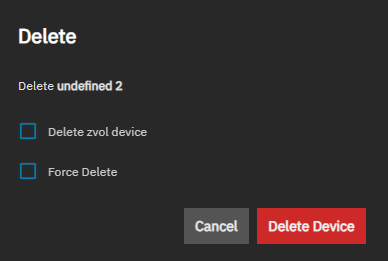
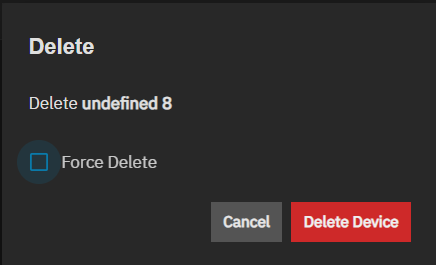
PD-1870 Update AddManageVMDevicesSCALE.md Content
This commit updates the instructions and screenshots in the virtual machine tutorial article.

diff --git a/content/SCALE/SCALETutorials/VirtualMachines/AddManageVMDevicesSCALE.md b/content/SCALE/SCALETutorials/VirtualMachines/AddManageVMDevicesSCALE.md
@@ -14,175 +14,203 @@ keywords:
 ---
 
 ## Managing Devices
-After creating a VM, the next step is to add virtual devices for that VM.
-Using the Create Virtual Machine wizard, configure at least one disk, NIC, and display as part of the process.
-To add devices, from the **Virtual Machines** screen, click anywhere on a VM entry to expand it and show the options for the VM.
 
-Click <i class="material-icons" aria-hidden="true" title="Devices">device_hub</i> **Devices** to open the **Devices** screen for the VM.
-From this screen, you can edit, add, or delete devices.
+After creating a VM, the next step is to add virtual devices for that VM.
+Using the **Create Virtual Machine** wizard configures at least one disk, NIC, and a display as part of the process, but you can add more devices to suit your use case.
+Go to **Virtual Machines**, then click anywhere on a VM entry to expand it and show the options for the VM.
+
+{{< trueimage src="/images/SCALE/Virtualization/VirtualMachinesScreenwithVMDetails.png" alt="VM Details" id="VM Details" >}}
+
+The VM options change when the VM is running.
+
+Click <i class="material-icons" aria-hidden="true" title="Devices">device_hub</i> **Devices** to open the **Devices** screen for that VM.
 Click the <span class="material-icons">more_vert</span> icon at the right of each listed device to see device options.
 
-{{< trueimage src="/images/SCALE/Virtualization/VirtualMachinesScreenwithVMDetails.png" alt="VM Options" id="VM Options" >}}
+{{< trueimage src="/images/SCALE/Virtualization/VMDevicesListed.png" alt="VM Devices Screen" id="VM Devices Screen" >}}
 
 The devices for the VM display as a list.
 
 Device notes:
-
 * A virtual machine attempts to boot from devices according to the **Device Order**, starting with **1000**, then ascending.
 * A **CD-ROM** device allows booting a VM from a CD-ROM image like an installation CD.
   The CD image must be available in the system storage.
-* With a **Display** device, remote clients can connect to VM display sessions using a SPICE client, or by installing a 3rd party remote desktop server inside your VM.
+* A **Display** device provides remote clients with a way to connect to VM display sessions using a SPICE client, or by installing a 3rd party remote desktop server inside your VM.
   SPICE clients are available from the [SPICE Protocol site](https://www.spice-space.org/).
 
+### Before You Begin
+
 Before adding, editing, or deleting a VM device, stop the VM if it is running.
-Click the **State** toggle to stop or restart a VM, or use the **Stop** and **Restart** buttons.
+Click the **Running** toggle to stop or restart a VM, or use the **Stop** and **Restart** buttons on the expanded VM screen.
+
+Expand the VM, then click on **Devices** to open the **Devices** Screen.
+Click **Add** to create a new device, or click on the <span class="material-icons">more_vert</span> at the right of each device row to edit or delete a device for the selected VM.
 
 ### Editing a Device
-Select **Edit** to open the **Edit Device** screen.
-You can change the type of virtual hard disk, the storage volume to use, or change the device boot order.
 
-To edit a VM device:
-1. Stop the VM if it is running, then click **Devices** to open the list of devices for the selected VM.
-2. Click on the <span class="material-icons">more_vert</span> icon at the right of the listed device you want to edit, then select **Edit** to open the **Edit Device** screen.
+Click on the <span class="material-icons">more_vert</span> at the right of the device row, then click on **Edit** to open the **Edit Device** screen.
+The screen settings change based on the device type selected. For example, if you edit a disk (example provided below), you can change the type of virtual hard disk, the storage volume to use, or change the boot order for the device.
+
+With the VM stopped, and the **Edit** option selected for a device. We show the procedure below using a disk device.
+Steps below are optional. Change them based on your use case.
 
 {{< trueimage src="/images/SCALE/Virtualization/EditDeviceDiskScreen.png" alt="Edit Device VM Disk" id="Edit Device VM Disk" >}}
 
-3. Select the path to the zvol created when setting up the VM on the **Zvol** dropdown list.
-4. Select the type of hard disk emulation from the **Mode** dropdown list.
+1. (Optional) Select a new path to the zvol created when setting up the VM on the **Zvol** dropdown list.
+2. (Optional) Select the type of hard disk emulation from the **Mode** dropdown list.
    Select **AHCI** for better software compatibility, or select **VirtIO** for better performance if the guest OS installed in the VM has support for VirtIO disk devices.
-5. (Optional) Specify the disk sector size in bytes in **Disk Sector Size**.
+3. (Optional) Specify the disk sector size in bytes in **Disk Sector Size**.
    Leave set to **Default** or select either **512** or **4096** byte values from the dropdown list.
-   If not set, the sector size uses the ZFS volume values.
-6. Specify the boot order or priority level in **Device Order** to move this device up or down in the sequence.
-   The lower the number the higher the priority in the boot sequence.
-7. Click **Save**.
-8. Restart the VM.
+   If set to **Default**, the sector size uses the ZFS volume values.
+4. (Optional) Enter a number that reflects the boot order or priority level in **Device Order** to move this device up or down in the sequence.
+   The lower the number, the higher the priority in the boot sequence.
+5. Click **Save**.
+4. Click on the **Virtual Machines** breadcrumb at the top of the screen, and restart the VM.
 
-### Deleting a Disk Device
-Deleting a device removes it from the list of available devices for the selected VM.
+{{< expand "To edit display type or bind address after creating a VM" "v" >}}
+Go to **Virtual Machines**, locate the VM you want to modify, and click on it to expand it.
+Click <i class="material-icons" aria-hidden="true" title="Devices">device_hub</i> **Devices** to open the **Devices** screen associated with the VM.
+Click the <span class="material-icons">more_vert</span> icon at the right of the display device and click on **Edit** to open the **Edit Device** screen for that display device.
+Select the IP address or other option on the **Bind** dropdown.
+{{< /expand >}}
 
-To delete a VM device:
-1. Stop the VM if it is running, then click **Devices** to open the list of devices for the selected VM.
-2. Click on the <span class="material-icons">more_vert</span> icon at the right of the listed device you want to delete, then select **Delete**.
-   The **Delete**  device dialog opens.
+### Deleting a Device
+
+Deleting a device removes it from the list of available devices for the selected VM. 
+
+To delete a device:
+
+1. Stop the VM if it is running, then click **Devices** to open the **Devices** screen showing the devices for the selected VM.
+2. Click **Edit** on the <span class="material-icons">more_vert</span> icon dropdown list to the right of the device to open the **Edit Device** screen for that display device.
+   The dialog shows the name or identifier for the selected device. The example below shows * undefined 8* as the name.
 
    {{< trueimage src="/images/SCALE/Virtualization/DeleteVMDevice.png" alt="Delete Virtual Machine Device" id="Delete Virtual Machine Device" >}}
 
-3. Select **Delete zvol device** to confirm you want to delete the zvol device.
-   Select **Force Delete** if you want the system to force the deletion of the zvol device, even if other devices or services are using or affiliated with the zvol device.
+3. Select **Force Delete** to force the system to delete the device (example device is a CD-ROM).
+   When deleting a disk, it forces the system to delete the zvol even if other devices or services are using it or are affiliated with the zvol device.
 4. Click **Delete Device**.
 
 ### Changing the Device Order
-1. Stop the VM if it is running, then click **Devices** to open the list of devices for the selected VM.
-2. Click **Edit**.
-3. Enter the number that represents where in the boot sequence you want this device to boot in the **Device Order** field.
+
+Changing the device order moves the device up or down in the boot order when the VM or system is restarted.
+A VM attempts to boot from devices according to the **Device Order**, starting with **1000**, then ascending.
+
+After stopping the VM and clicking **Devices** to open the **Devices** screen:
+
+1. Click on the <span class="material-icons">more_vert</span> at the right of the device row, then click on **Edit** to open the **Edit Device** screen.
+2. Enter a new number that represents where in the boot sequence you want to place this device in **Device Order**.
    The lower the number, the higher the device is in the boot sequence.
-4. Click **Save**.
-5. Restart the VM.
+3. Click **Save**.
+4. Click on the **Virtual Machines** breadcrumb at the top of the screen, and restart the VM.
 
 ### Adding a CD-ROM Device
-Select **CD-ROM** as the **Device Type** on the **Add Device** screen and set a boot order.
 
-1. Stop the VM if it is running, then click **Devices**.
-2. Click **Add** and select **CD-ROM** from the **Device Type** dropdown list.
+After stopping the VM and clicking **Devices** to open the **Devices** screen:
+
+1. Click **Add** and select **CD-ROM** on the **Device Type** dropdown list.
 
    {{< trueimage src="/images/SCALE/Virtualization/VMAddDeviceCDROM.png" alt="Devices Add CD-ROM Type" id="Devices Add CD-ROM Type" >}}
 
-3. Specify the mount path.
-   Click on the <i class="fa fa-caret-right" aria-hidden="true"></i> to the left of **/mnt** and at the pool and dataset levels to expand the directory tree. Select the path to the CD-ROM device.
-4. Specify the boot sequence in **Device Order**.
+2. Enter or browse to select the mount path to the CD-ROM device.
+   Click on the <i class="fa fa-caret-right" aria-hidden="true"></i> to the left of **/mnt** to expand or collapse the directory tree. 
+3. Enter a new number that represents where in the boot sequence you want to place this device in **Device Order**.
+4. Enter a new number that represents where in the boot sequence you want to place this device in **Device Order**.
+   The lower the number, the higher the device is in the boot sequence.
 5. Click **Save**.
-6. Restart the VM.
+6. Click on the **Virtual Machines** breadcrumb at the top of the screen, and restart the VM.
 
 ### Adding a NIC Device Type
-Select **NIC** in the **Device Type** on the **Add Device** screen to add a network interface card for the VM to use.
 
-1. Stop the VM if it is running, then click **Devices**.
-2. Click **Add** and select **NIC** from the **Device Type** dropdown list.
+After stopping the VM and clicking **Devices** to open the **Devices** screen:
+
+1. Click **Add** to open the **Add Device** screen.
+2. Select **NIC** on the **Device Type** dropdown list to show the network interface card settings.
 
    {{< trueimage src="/images/SCALE/Virtualization/VMAddDeviceNIC.png" alt="Devices Add NIC" id="Devices Add NIC" >}}
 
-3. Select the adapter type. Choose **Intel e82585 (e1000)** for maximum compatibility with most operating systems.
+3. Select the adapter type from the **Adapter Type** dropdown list.
+   Choose **Intel e82585 (e1000)** for maximum compatibility with most operating systems.
    If the guest OS supports VirtIO paravirtualized network drivers, choose **VirtIO** for better performance.
-4. Click **Generate** to assign a new random MAC address to replace the random default address, or enter your own custom address.
-5. Select the physical interface you want to use from the **NIC To Attach** dropdown list.
+4. Click **Generate** to have TrueNAS populate **MAC Address** with a new random MAC address to replace the default random address, or enter your own custom address.
+5. Select a physical interface on your TrueNAS system from the **NIC To Attach** dropdown list.
 6. (Optional) Select **Trust Guest Filters** to allow the virtual server to change its MAC address and join multicast groups.
    This is required for the IPv6 Neighbor Discovery Protocol (NDP).
 
-   Setting this attribute has security risks.
-   It allows the virtual server to change its MAC address and receive all frames delivered to this address.
-   Determine your network setup needs before setting this attribute.
+   Setting this attribute has security risks because it allows the virtual server to change its MAC address and receive all frames delivered to this address. Determine your network setup needs before setting this attribute.
 7. Click **Save**.
-8. Restart the VM.
+8. Click on the **Virtual Machines** breadcrumb at the top of the screen, and restart the VM.
 
 ### Add a Disk Device
-Select **Disk** in **Device Type** on the **Add Device** screen to configure a new disk location, drive type and disk sector size, and boot order.
 
-1. Stop the VM if it is running, then click **Devices**.
-2. Click **Add** and select **Disk** from the **Device Type** dropdown list.
+After stopping the VM and clicking **Devices** to open the **Devices** screen:
+
+1. Click **Add** and select **Disk** from the **Device Type** dropdown list.
 
    {{< trueimage src="/images/SCALE/Virtualization/VMAddDeviceDisk.png" alt="Devices Add Disk" id="Devices Add Disk" >}}
 
-3. Select the path to the zvol you created when setting up the VM using the **Zvol** dropdown list.
-4. Select the hard disk emulation type from the **Mode** dropdown list.
+2. Select the path to the zvol created when setting up the VM on the **Zvol** dropdown list.
+3. Select the hard disk emulation type from the **Mode** dropdown list.
    Select **AHCI** for better software compatibility, or **VirtIO** for better performance if the guest OS installed in the VM supports VirtIO disk devices.
-5. Specify the sector size in bytes in **Disk Sector Size**.
-   Leave set to **Default** or select either **512** or **4096** from the dropdown list to change it.
-   If the sector size remains unset it uses the ZFS volume values.
-6. Specify the  boot order for the disk device.
+4. Select the sector size in bytes in **Disk Sector Size**.
+   Leave set to **Default** or select either **512** or **4096** from the dropdown list.
+   **Default** uses the ZFS volume values.
+5. Enter a new number that represents where in the boot sequence you want to place this device in **Device Order**.
+   The lower the number, the higher the device is in the boot sequence.
 7. Click **Save**.
-8. Restart the VM.
+4. Click on the **Virtual Machines** breadcrumb at the top of the screen, and restart the VM.
 
 ### Adding a PCI Passthrough Device
-Select **PCI Passthrough Device** in the **Device Type** on the **Add Device** screen to configure the PCI passthrough device and boot order.
+
 {{< hint type=important >}}
 Depending upon the type of device installed in your system, you might see a warning: PCI device does not have a reset mechanism defined.
 You may experience inconsistent or degraded behavior when starting or stopping the VM.
 Determine if you want to proceed with this action in such an instance.
 {{< /hint >}}
 
-1. Stop the VM if it is running, then click **Devices**.
-2. Click **Add** and select **PCI Passthrough Device** from the **Device Type** dropdown list.
-3. Enter a value in **PCI Passthrough Device** using the format of bus#/slot#/fcn#.
+After stopping the VM and clicking **Devices** to open the **Devices** screen:
+
+1. Click **Add** and select **PCI Passthrough Device** from the **Device Type** dropdown list.
+2. Enter a value in **PCI Passthrough Device** using the format of *bus#/slot#/fcn#*.
 
    {{< trueimage src="/images/SCALE/Virtualization/VMAddDevicePCIpass.png" alt="Devices Add PCI Passthrough" id="Devices Add PCI Passthrough" >}}
 
-4. Specify the  boot order for the PCI passthrough device.
-5. Click **Save**.
-6. Restart the VM.
+3. Enter a new number that represents where in the boot sequence you want to place this device in **Device Order**.
+   The lower the number, the higher the device is in the boot sequence.
+4. Click **Save**.
+5. Click on the **Virtual Machines** breadcrumb at the top of the screen, and restart the VM.
 
 ### Adding a USB Passthrough Device
-Select **USB Passthrough Device** as the **Device Type** on the **Add Device** screen to configure the USB passthrough device, and set a boot order.
 
-1. Stop the VM if it is running, then click **Devices**.
-2. Click **Add** and select **USB Passthrough Device** from the **Device Type** dropdown list.
+After stopping the VM and clicking **Devices** to open the **Devices** screen:
+
+1. Click **Add** and select **USB Passthrough Device** from the **Device Type** dropdown list to configure the USB passthrough device.
 
    {{< trueimage src="/images/SCALE/Virtualization/VMAddDeviceUSBpass.png" alt="Devices Add USB Passthrough" id="Devices Add USB Passthrough" >}}
 
-3. Select the **Controller Type** from the dropdown list.
-4. Select the hub controller type from the **Device** dropdown list.
+2. Select the **Controller Type** from the dropdown list.
+3. Select the hub controller type from the **Device** dropdown list.
    If the type is not listed, select **Specify custom**, then enter the **Vendor ID** and **Product ID**.
-5. Specify the  boot order.
-6. Click **Save**.
-7. Restart the VM.
+4. Enter a new number that represents where in the boot sequence you want to place this device in **Device Order**.
+   The lower the number, the higher the device is in the boot sequence.
+5. Click **Save**.
+6. Click on the **Virtual Machines** breadcrumb at the top of the screen, and restart the VM.
 
 ### Adding a Display Device
-Select **Display** as **Device Type** on the **Add Device** screen to configure a new display device.
-
-1. Stop the VM if it is running, then click **Devices**.
-2. Click **Add** and select **Display** from the **Device Type** dropdown list.
-
-   {{< trueimage src="/images/SCALE/Virtualization/VMAddDeviceDisplay.png" alt="Devices Add Display" id="Devices Add Display" >}}
-
-3. Enter a fixed port number in **Port**.
-   To allow TrueNAS to assign the port after restarting the VM, set the value to zero (leave the field empty).
-4. Specify the display session settings:
-   a. Select the screen resolution to use for the display from the **Resolution** dropdown.
-   b. Select an IP address for the display device to use in **Bind**. The default is **0.0.0.0**.
-   c. Enter a unique password for the display device to securely access the VM.
-5. Select **Web Interface** to allow access to the VNC web interface.
-6. Click **Save**.
-7. Restart the VM.
 
 Display devices have a 60-second inactivity timeout.
 If the VM display session appears unresponsive, try refreshing the browser tab.
+
+After stopping the VM and clicking **Devices** to open the **Devices** screen:
+
+1. Click **Add** and select **Display** from the **Device Type** dropdown list to configure a new display device.
+
+   {{< trueimage src="/images/SCALE/Virtualization/VMAddDeviceDisplay.png" alt="Devices Add Display" id="Devices Add Display" >}}
+
+2. Enter a fixed port number in **Port**.
+   To allow TrueNAS to assign the port after restarting the VM, set the value to zero (leave the field empty).
+3. Specify the display session settings:
+   a. Select the screen resolution to use for the display from the **Resolution** dropdown.
+   b. Select an IP address for the display device to use in **Bind**. The default is **0.0.0.0**.
+   c. Enter a unique password for the display device to securely access the VM.
+4. Select **Web Interface** to allow access to the VNC web interface.
+5. Click **Save**.
+6. Click on the **Virtual Machines** breadcrumb at the top of the screen, and restart the VM.

diff --git a/content/SCALE/SCALEUIReference/VirtualMachinesScreens.md b/content/SCALE/SCALEUIReference/VirtualMachinesScreens.md
@@ -277,7 +277,6 @@ CD-ROM settings show when **Device Type** is set to **CD-ROM**.
 {{< trueimage src="/images/SCALE/Virtualization/VMAddDeviceCDROM.png" alt="Add Device - CD-ROM" id="Add Device - CD-ROM" >}}
 
 **CD-ROM Path** shows two fields: the **/mnt** path field that populates with what is selected with the file browser field directly below it. The <iconify-icon icon="bxs:right-arrow"></iconify-icon> to the left of <iconify-icon icon="bxs:folder"></iconify-icon>**/mnt** expands or collapses the directory branch while you browse to the location of the CD-ROM file on the system. |
-{{< /truetable >}}
 {{< /expand >}}
 
 {{< expand "NIC Settings" "v" >}}
